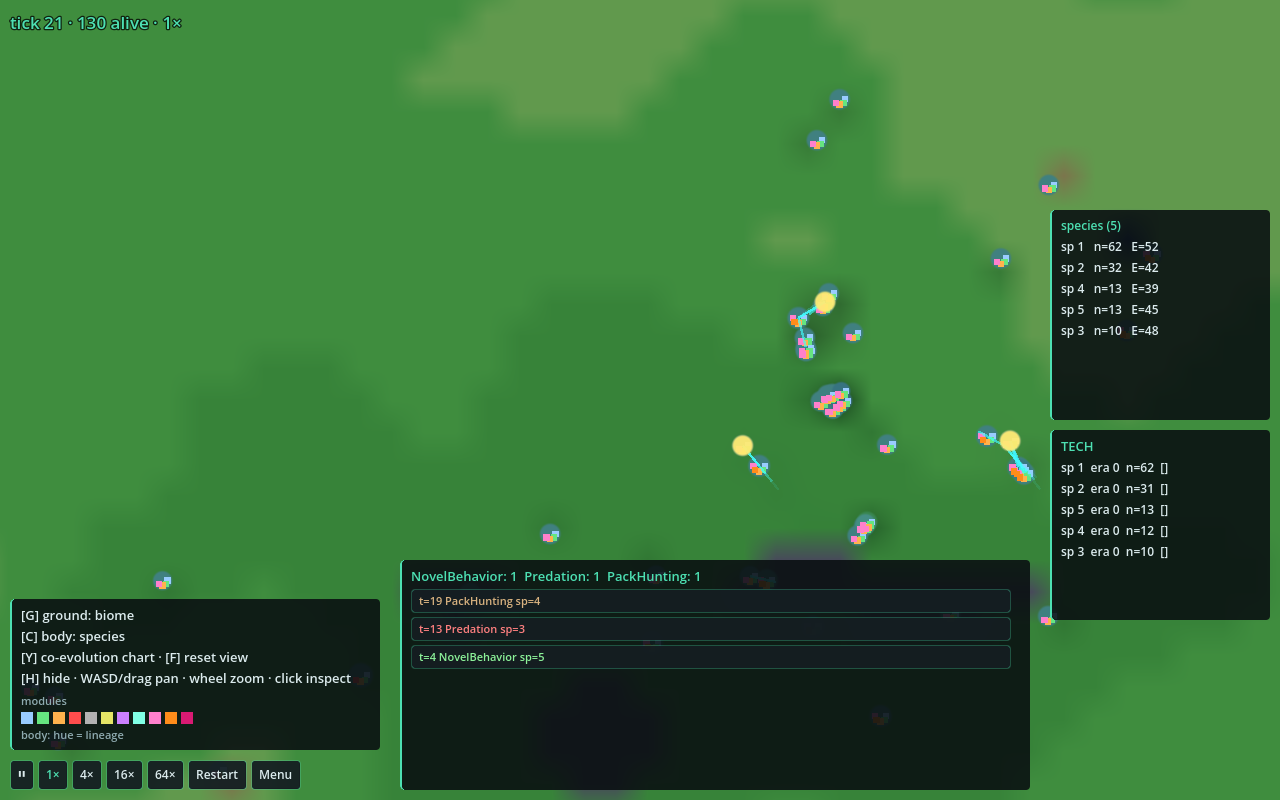
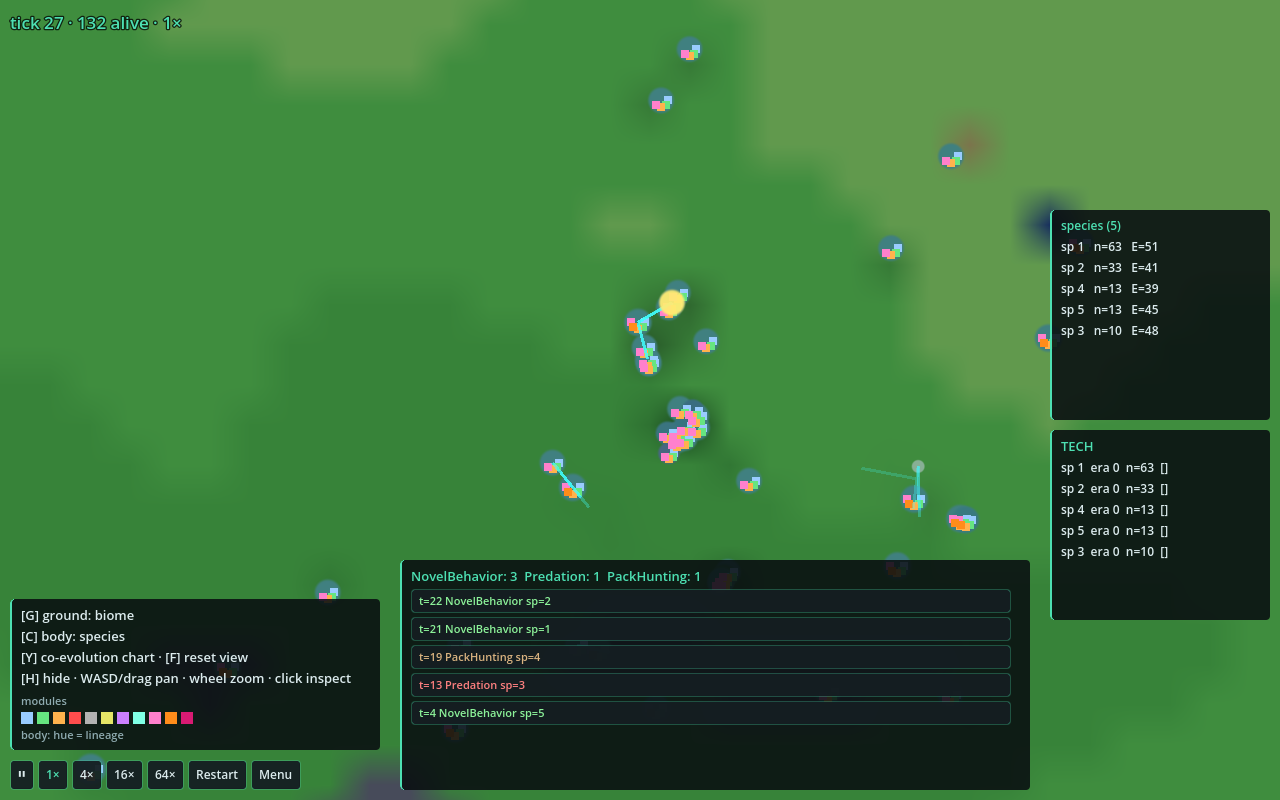
docs(gallery): bolder zoom-5 volley close-up (clearer tracers)
Replace the arms-race volley close-up with a tighter zoom-5 framing (tick
27): four cyan Spines tracers, each terminating on a yellow just-hit
target and converging on the clustered herd prey. At the previous zoom-4
the tracers were legible but small; the whole point of this gallery entry
is to make the ranged-fire streaks unmistakable, so the bolder crop reads
the feature far more clearly. README env vars updated to match.

Verified the camera override is correct as shipped (canvas_transform is
exactly zoom 5 centered on the requested world point) — the sparse open
biome around the spiner flank just reads as a wide view at a glance.

diff --git a/gallery/README.md b/gallery/README.md
@@ -30,7 +30,7 @@ clearly — the full-world shots above show them only as faint slivers.
 
 | File | Tick | Capture env | What you're seeing |
 |---|---|---|---|
-| armsrace-volley-closeup.png | 21 | `ZOOM=4.0 X=650 Y=340 TICKS=14 FRAMES=6` | The opening spiner volley up close: three bright cyan tracers stretch from the spiner pack (sp4) across the standoff gap into the herd — the ranged Spines kill *before* contact weapons can close. This is exactly the behavior that was invisible in the viewer before the streak layer landed. |
+| armsrace-volley-closeup.png | 27 | `ZOOM=5.0 X=690 Y=335 TICKS=21 FRAMES=5` | The opening spiner volley up close: four bright cyan tracers stretch from the spiner pack (sp4), each ending on a yellow just-hit target, converging on the clustered herd prey below — the ranged Spines kill *before* contact weapons can close. This is exactly the behavior that was invisible in the viewer before the streak layer landed. |
 | armsrace-brawl-closeup.png | 109 | `ZOOM=3.6 X=660 Y=320 TICKS=100 FRAMES=8` | Why the tracers matter: once the lineages collide, the melee is a knot of mixed body plans — cyan spiner, magenta Jaws bruiser, orange/green glyphs — fighting at point-blank. The streaks tint to each attacker's species hue, so ranged fire stays legible even in the scrum. |
 
 ## classic scenarios